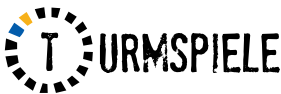
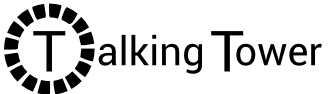
title is now talking tower

Changed region(s): [[0.0, 0.0213, 0.9964, 1.0]]

diff --git a/tower/js/3DTower.js b/tower/js/3DTower.js
@@ -282,10 +282,17 @@ var Tower3DObj=function(){
 // =======
 // 		//render with 24 fps
 		renderTimeout=setTimeout( function() {
-			console.log("frame")
-			if(!that.stopAnimation)
+			if(!that.stopAnimation) {
 				requestAnimationFrame(that.animate);
-// 		}, 1000 / framerate );
+				var currentFrame=player.getCurrentFrame(lastFrameStartTime,new Date().getTime());
+				if(!(currentFrame.windows===undefined)){
+					$.each(currentFrame.windows,function(i,window){
+						that.setWindowToColor(i,window.color)
+					})
+				}
+				that.render();
+			}
+ 		}, 1000 / framerate );
 // >>>>>>> master
 
 // 		setTimeout( function() {

diff --git a/tower/css/main.css b/tower/css/main.css
@@ -76,7 +76,7 @@ body {
 	overflow: hidden;
 	padding: 0;
 	height: 97px;
-	width: 290px;
+	width: 331px;
 	background: url(../img/title.png) no-repeat;
 }
 
